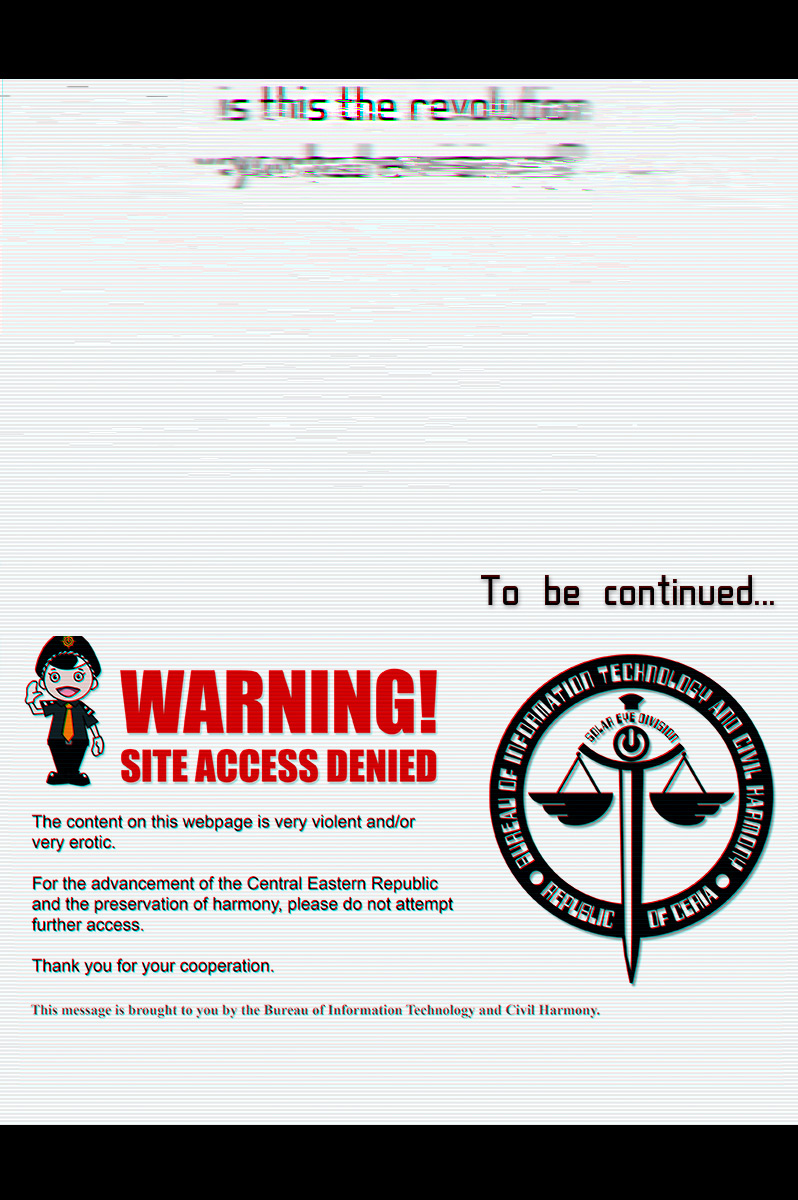
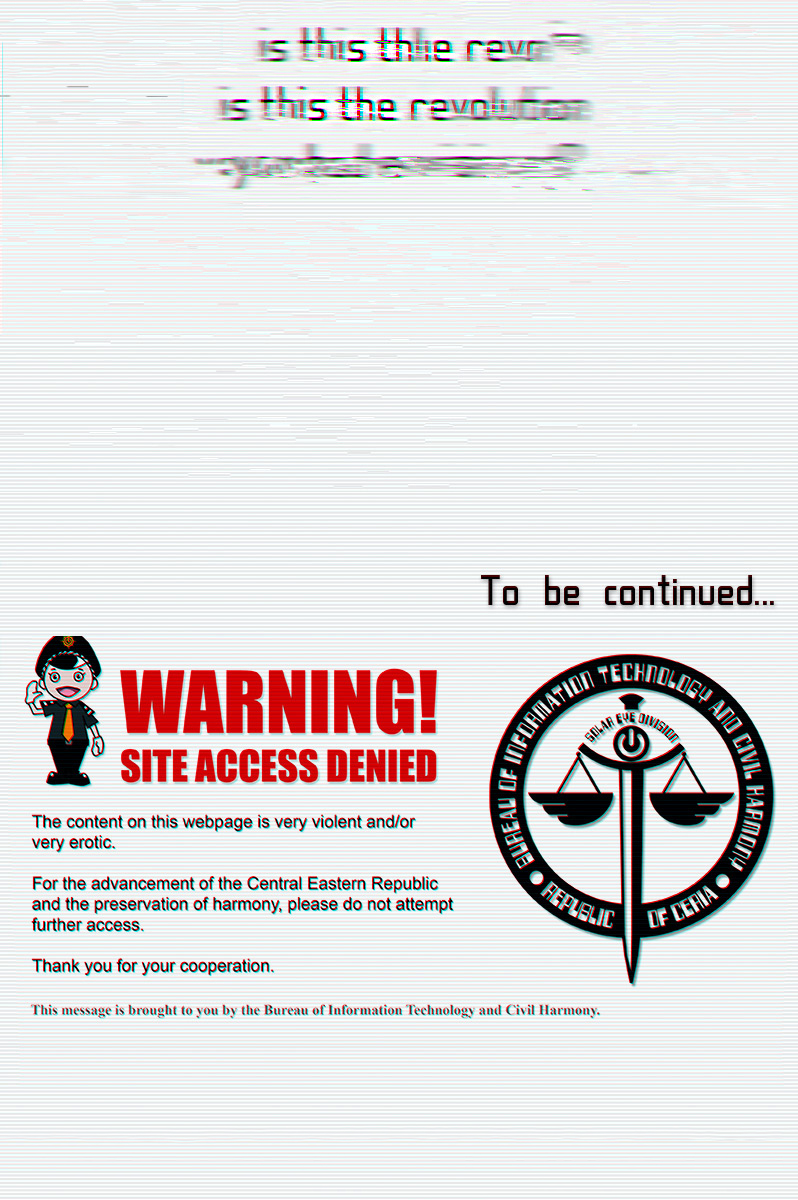
Comics introduction

Changed region(s): [[0.0, 0.925, 1.0, 1.0], [0.0, 0.0, 1.0, 0.0925]]

diff --git a/index.html b/index.html
@@ -18,7 +18,7 @@
       <a class="ui-arrow-control ui-arrow-previous-page flex" ignore="1">
         <i class="fa fa-angle-left"></i>
       </a>
-     <div class='page'><iframe src='build/renders/page-1.html'></iframe></div><div class='page'><iframe src='build/renders/page-2.html'></iframe></div><div class='page'><iframe src='build/renders/page-3.html'></iframe></div><div class='page'><iframe src='build/renders/page-4.html'></iframe></div><div class='page'><iframe src='build/renders/page-5.html'></iframe></div><div class='page'><iframe src='build/renders/page-6.html'></iframe></div><div class='page'><iframe src='build/renders/page-7.html'></iframe></div><div class='page'><iframe src='build/renders/page-8.html'></iframe></div><div class='page'><iframe src='build/renders/page-9.html'></iframe></div><div class='page'><iframe src='build/renders/page-10.html'></iframe></div><div class='page'><iframe src='build/renders/page-11.html'></iframe></div><div class='page'><iframe src='build/renders/page-12.html'></iframe></div><div class='page'><iframe src='build/renders/page-13.html'></iframe></div><div class='page'><iframe src='build/renders/page-14.html'></iframe></div><div class='page'><iframe src='build/renders/page-15.html'></iframe></div><div class='page'><iframe src='build/renders/page-16.html'></iframe></div><div class='page'><iframe src='build/renders/page-17.html'></iframe></div><div class='page'><iframe src='build/renders/page-18.html'></iframe></div><div class='page'><iframe src='build/renders/page-19.html'></iframe></div><div class='page'><iframe src='build/renders/page-20.html'></iframe></div><div class='page'><iframe src='build/renders/page-21.html'></iframe></div><div class='page'><iframe src='build/renders/page-22.html'></iframe></div><div class='page'><iframe src='build/renders/page-23.html'></iframe></div><div class='page'><iframe src='build/renders/page-24.html'></iframe></div>
+     <div class='page'><iframe src='build/renders/page-1.html'></iframe></div><div class='page'><iframe src='build/renders/page-2.html'></iframe></div><div class='page'><iframe src='build/renders/page-3.html'></iframe></div><div class='page'><iframe src='build/renders/page-4.html'></iframe></div><div class='page'><iframe src='build/renders/page-5.html'></iframe></div><div class='page'><iframe src='build/renders/page-6.html'></iframe></div><div class='page'><iframe src='build/renders/page-7.html'></iframe></div><div class='page'><iframe src='build/renders/page-8.html'></iframe></div><div class='page'><iframe src='build/renders/page-9.html'></iframe></div><div class='page'><iframe src='build/renders/page-10.html'></iframe></div><div class='page'><iframe src='build/renders/page-11.html'></iframe></div><div class='page'><iframe src='build/renders/page-12.html'></iframe></div><div class='page'><iframe src='build/renders/page-13.html'></iframe></div><div class='page'><iframe src='build/renders/page-14.html'></iframe></div><div class='page'><iframe src='build/renders/page-15.html'></iframe></div><div class='page'><iframe src='build/renders/page-16.html'></iframe></div><div class='page'><iframe src='build/renders/page-17.html'></iframe></div><div class='page'><iframe src='build/renders/page-18.html'></iframe></div><div class='page'><iframe src='build/renders/page-19.html'></iframe></div><div class='page'><iframe src='build/renders/page-20.html'></iframe></div><div class='page'><iframe src='build/renders/page-21.html'></iframe></div><div class='page'><iframe src='build/renders/page-22.html'></iframe></div><div class='page'><iframe src='build/renders/page-23.html'></iframe></div><div class='page'><iframe src='build/renders/page-24.html'></iframe></div><div class='page'><iframe src='build/renders/page-25.html'></iframe></div><div class='page'><iframe src='build/renders/page-26.html'></iframe></div>
     </div>
   </main>
   <input type="hidden" id="bookname" value="Intro"/>

diff --git a/manuscript/page-1/style.css b/manuscript/page-1/style.css
@@ -1,3 +1,3 @@
 body{
-/*  background-image: url(//raw.githubusercontent.com/marvindanig/your-book-name/master/images/comics-1115x1143-pixels.jpg); */
+  background-image: url(//raw.githubusercontent.com/marvindanig/fisheye-placebo-intro/master/assets/images/FPI_PAGE_1.jpg); 
 }

diff --git a/manuscript/page-23/style.css b/manuscript/page-23/style.css
@@ -1,0 +1,4 @@
+body{
+  background-image: url(//raw.githubusercontent.com/marvindanig/fisheye-placebo-intro/master/assets/images/FPI_PAGE_17.jpg); 
+}
+

diff --git a/manuscript/page-12/style.css b/manuscript/page-12/style.css
@@ -1,0 +1,3 @@
+body{
+  background-image: url(//raw.githubusercontent.com/marvindanig/fisheye-placebo-intro/master/assets/images/FPI_PAGE_11.jpg); 
+}

diff --git a/manuscript/page-13/style.css b/manuscript/page-13/style.css
@@ -1,0 +1,3 @@
+body{
+  background-image: url(//raw.githubusercontent.com/marvindanig/fisheye-placebo-intro/master/assets/images/FPI_PAGE_10.jpg); 
+}

diff --git a/manuscript/page-14/style.css b/manuscript/page-14/style.css
@@ -1,0 +1,3 @@
+body{
+  background-image: url(//raw.githubusercontent.com/marvindanig/fisheye-placebo-intro/master/assets/images/FPI_PAGE_13.jpg); 
+}

diff --git a/manuscript/page-15/style.css b/manuscript/page-15/style.css
@@ -1,0 +1,3 @@
+body{
+  background-image: url(//raw.githubusercontent.com/marvindanig/fisheye-placebo-intro/master/assets/images/FPI_PAGE_12.jpg); 
+}

diff --git a/manuscript/page-16/style.css b/manuscript/page-16/style.css
@@ -1,0 +1,3 @@
+body{
+  background-image: url(//raw.githubusercontent.com/marvindanig/fisheye-placebo-intro/master/assets/images/FPI_PAGE_14.jpg); 
+}

diff --git a/manuscript/page-18/style.css b/manuscript/page-18/style.css
@@ -1,0 +1,3 @@
+body{
+  background-image: url(//raw.githubusercontent.com/marvindanig/fisheye-placebo-intro/master/assets/images/FPI_PAGE_16.jpg); 
+}

diff --git a/manuscript/page-19/style.css b/manuscript/page-19/style.css
@@ -1,0 +1,3 @@
+body{
+  background-image: url(//raw.githubusercontent.com/marvindanig/fisheye-placebo-intro/master/assets/images/FPI_PAGE_19.jpg); 
+}

diff --git a/manuscript/page-20/style.css b/manuscript/page-20/style.css
@@ -1,0 +1,3 @@
+body{
+  background-image: url(//raw.githubusercontent.com/marvindanig/fisheye-placebo-intro/master/assets/images/FPI_PAGE_18.jpg); 
+}

diff --git a/manuscript/page-21/style.css b/manuscript/page-21/style.css
@@ -1,0 +1,3 @@
+body{
+  background-image: url(//raw.githubusercontent.com/marvindanig/fisheye-placebo-intro/master/assets/images/FPI_PAGE_20.jpg); 
+}
